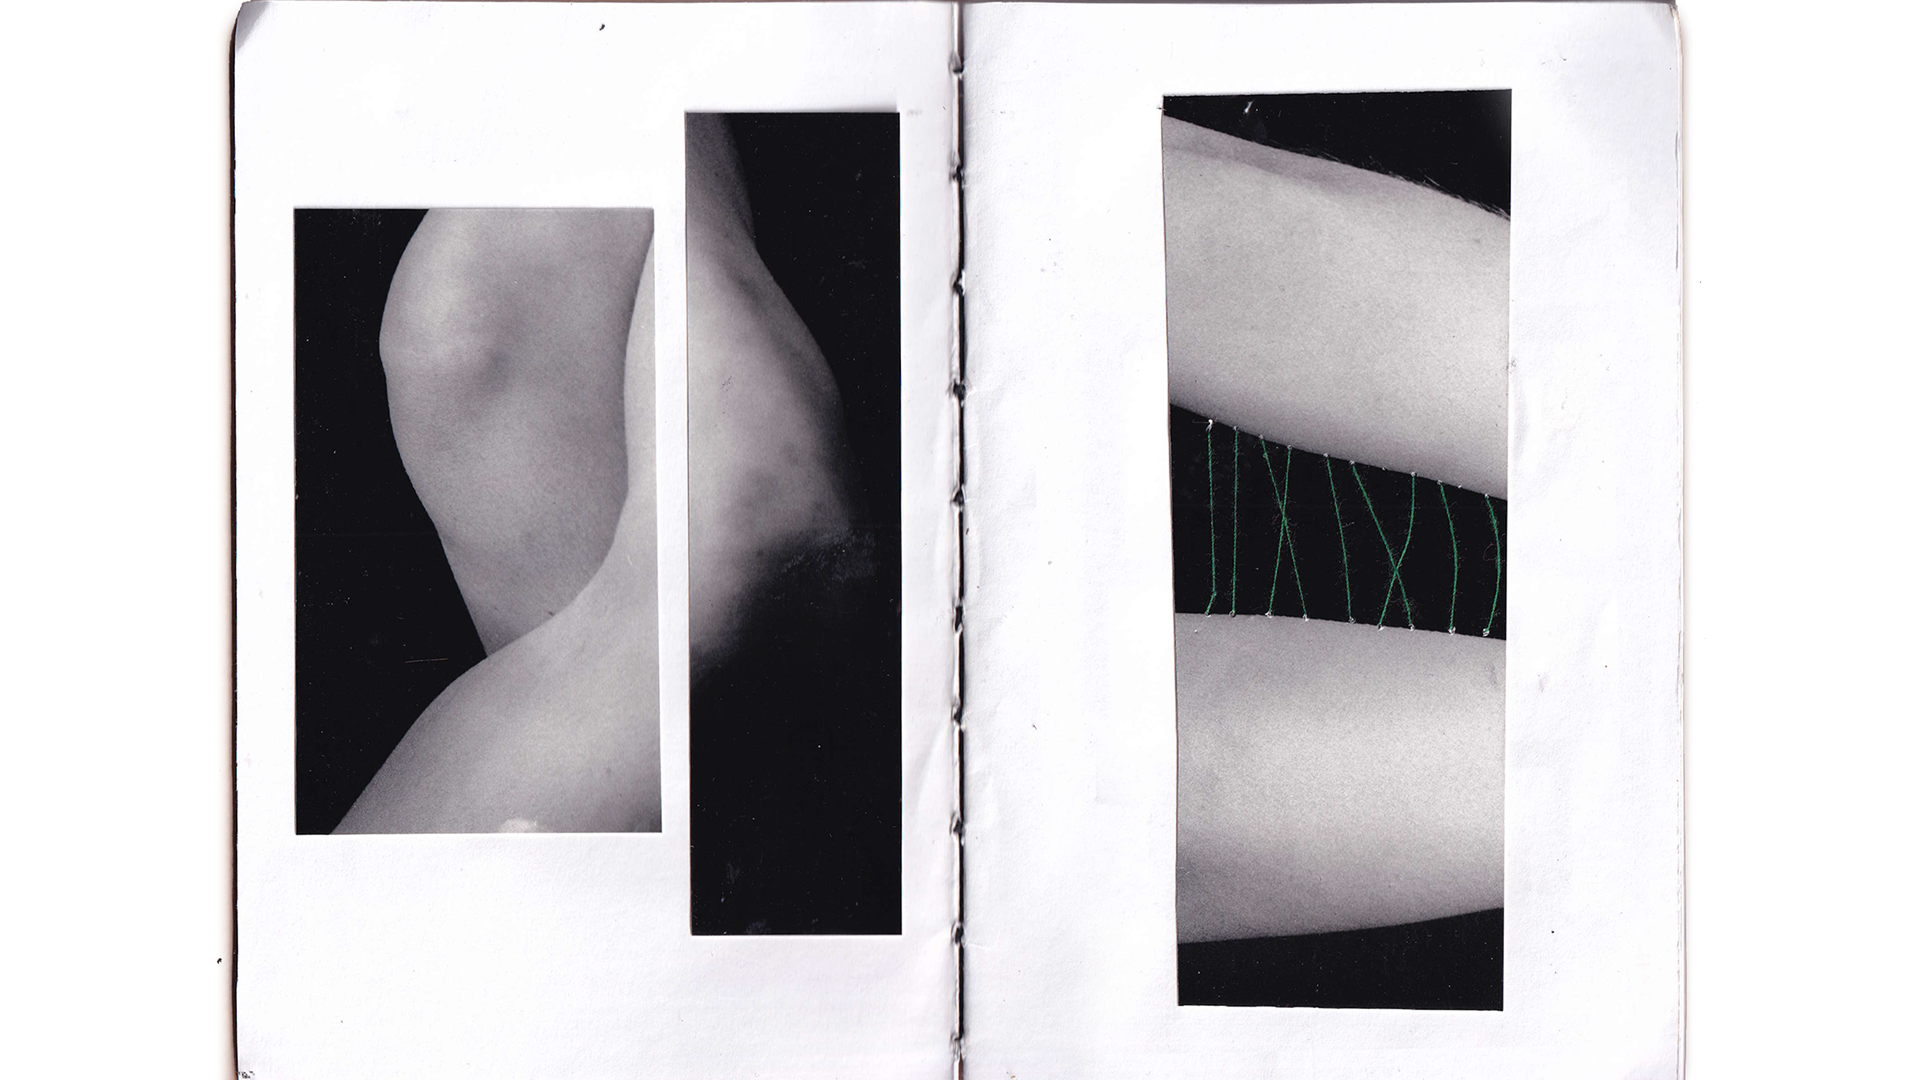
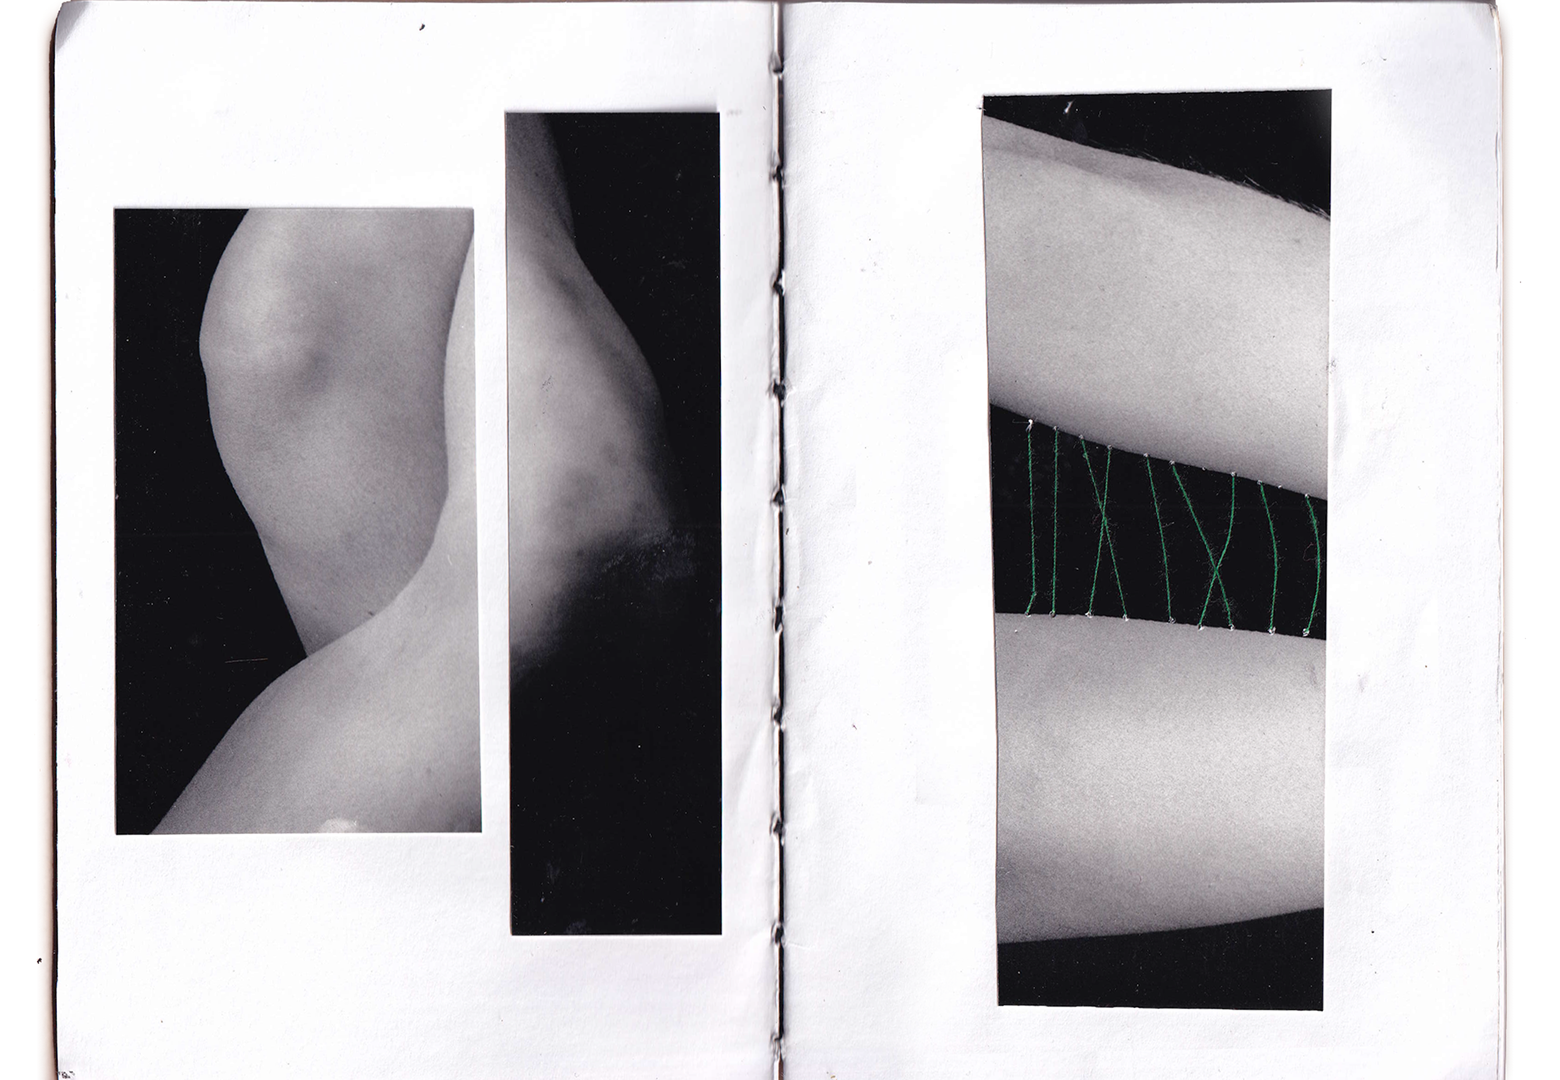
book of self + estate

diff --git a/project.css b/project.css
@@ -35,9 +35,9 @@
   width: 100vw;
   background-color: white;
 }
-.gallery-item > img {
+/* .gallery-item > img {
   height: 100vh;
-}
+} */
 .gallery-item:has(video) {
   background-color: black;
 }
@@ -132,7 +132,7 @@
   .contain img,
   .contain video {
     padding: 2.75vw;
-    width: calc(100% - 1.375vw);
+    width: calc(100% - 5.5vw);
   }
   .side-by-side {
     gap: 2.75vw;
